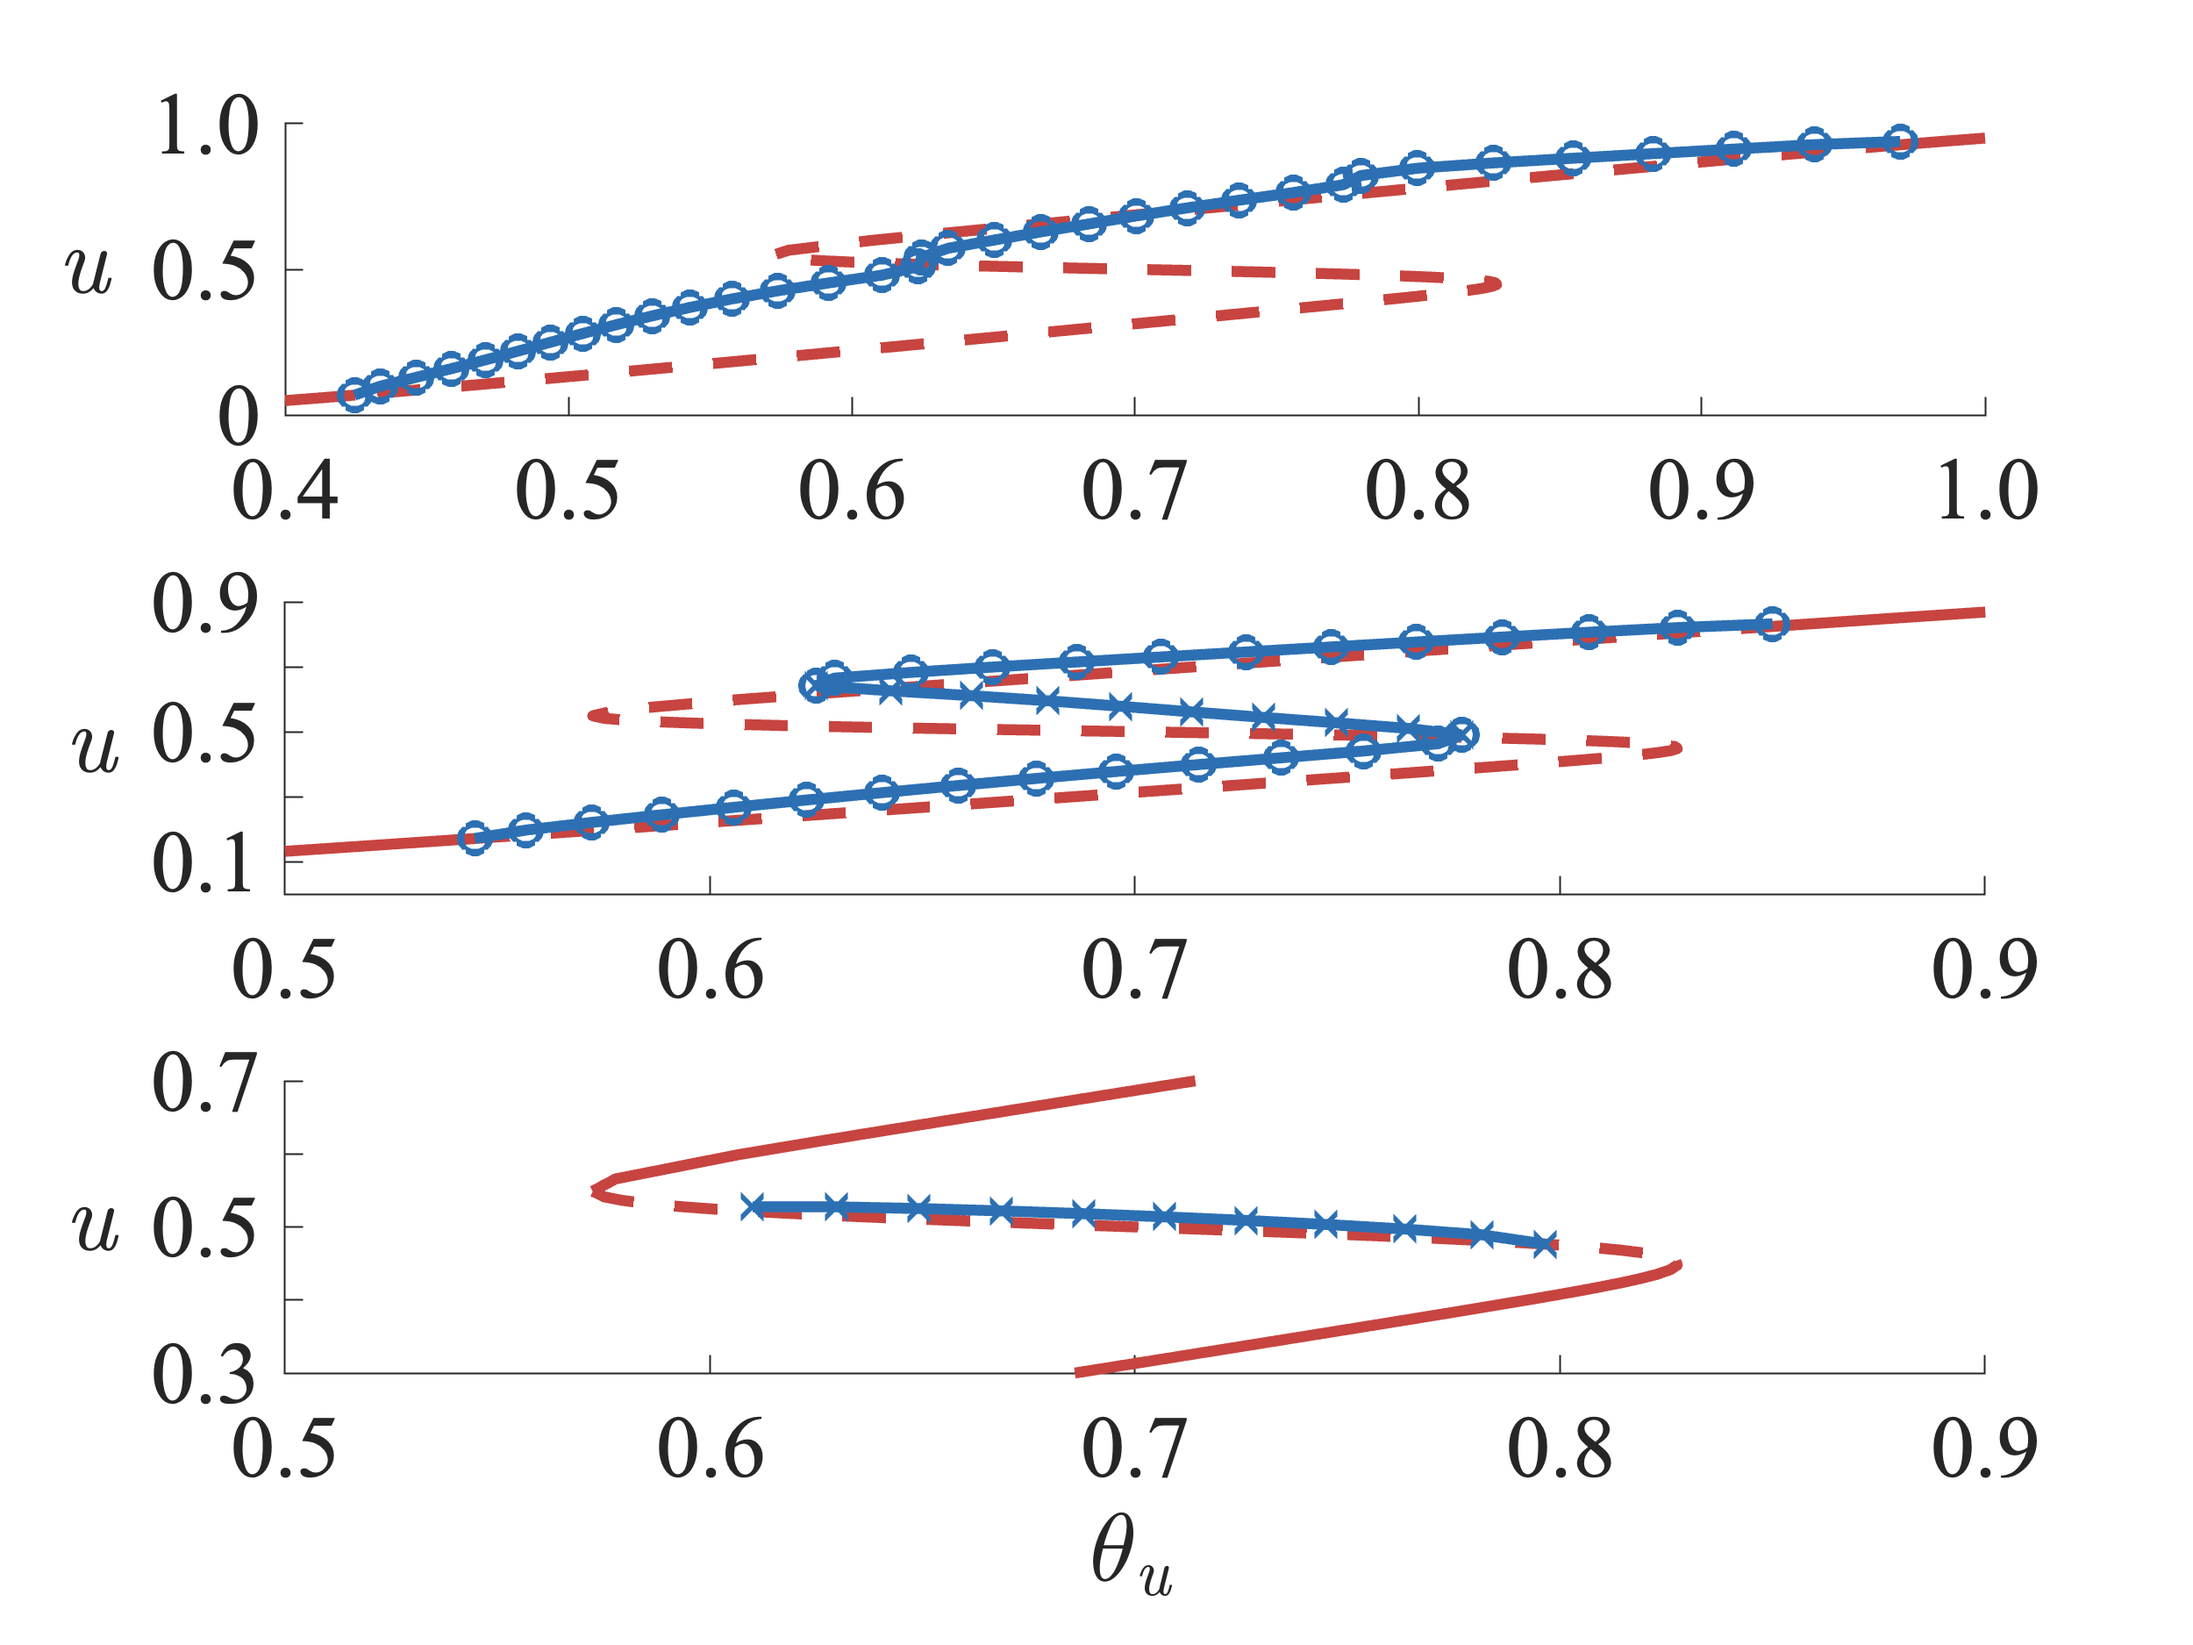
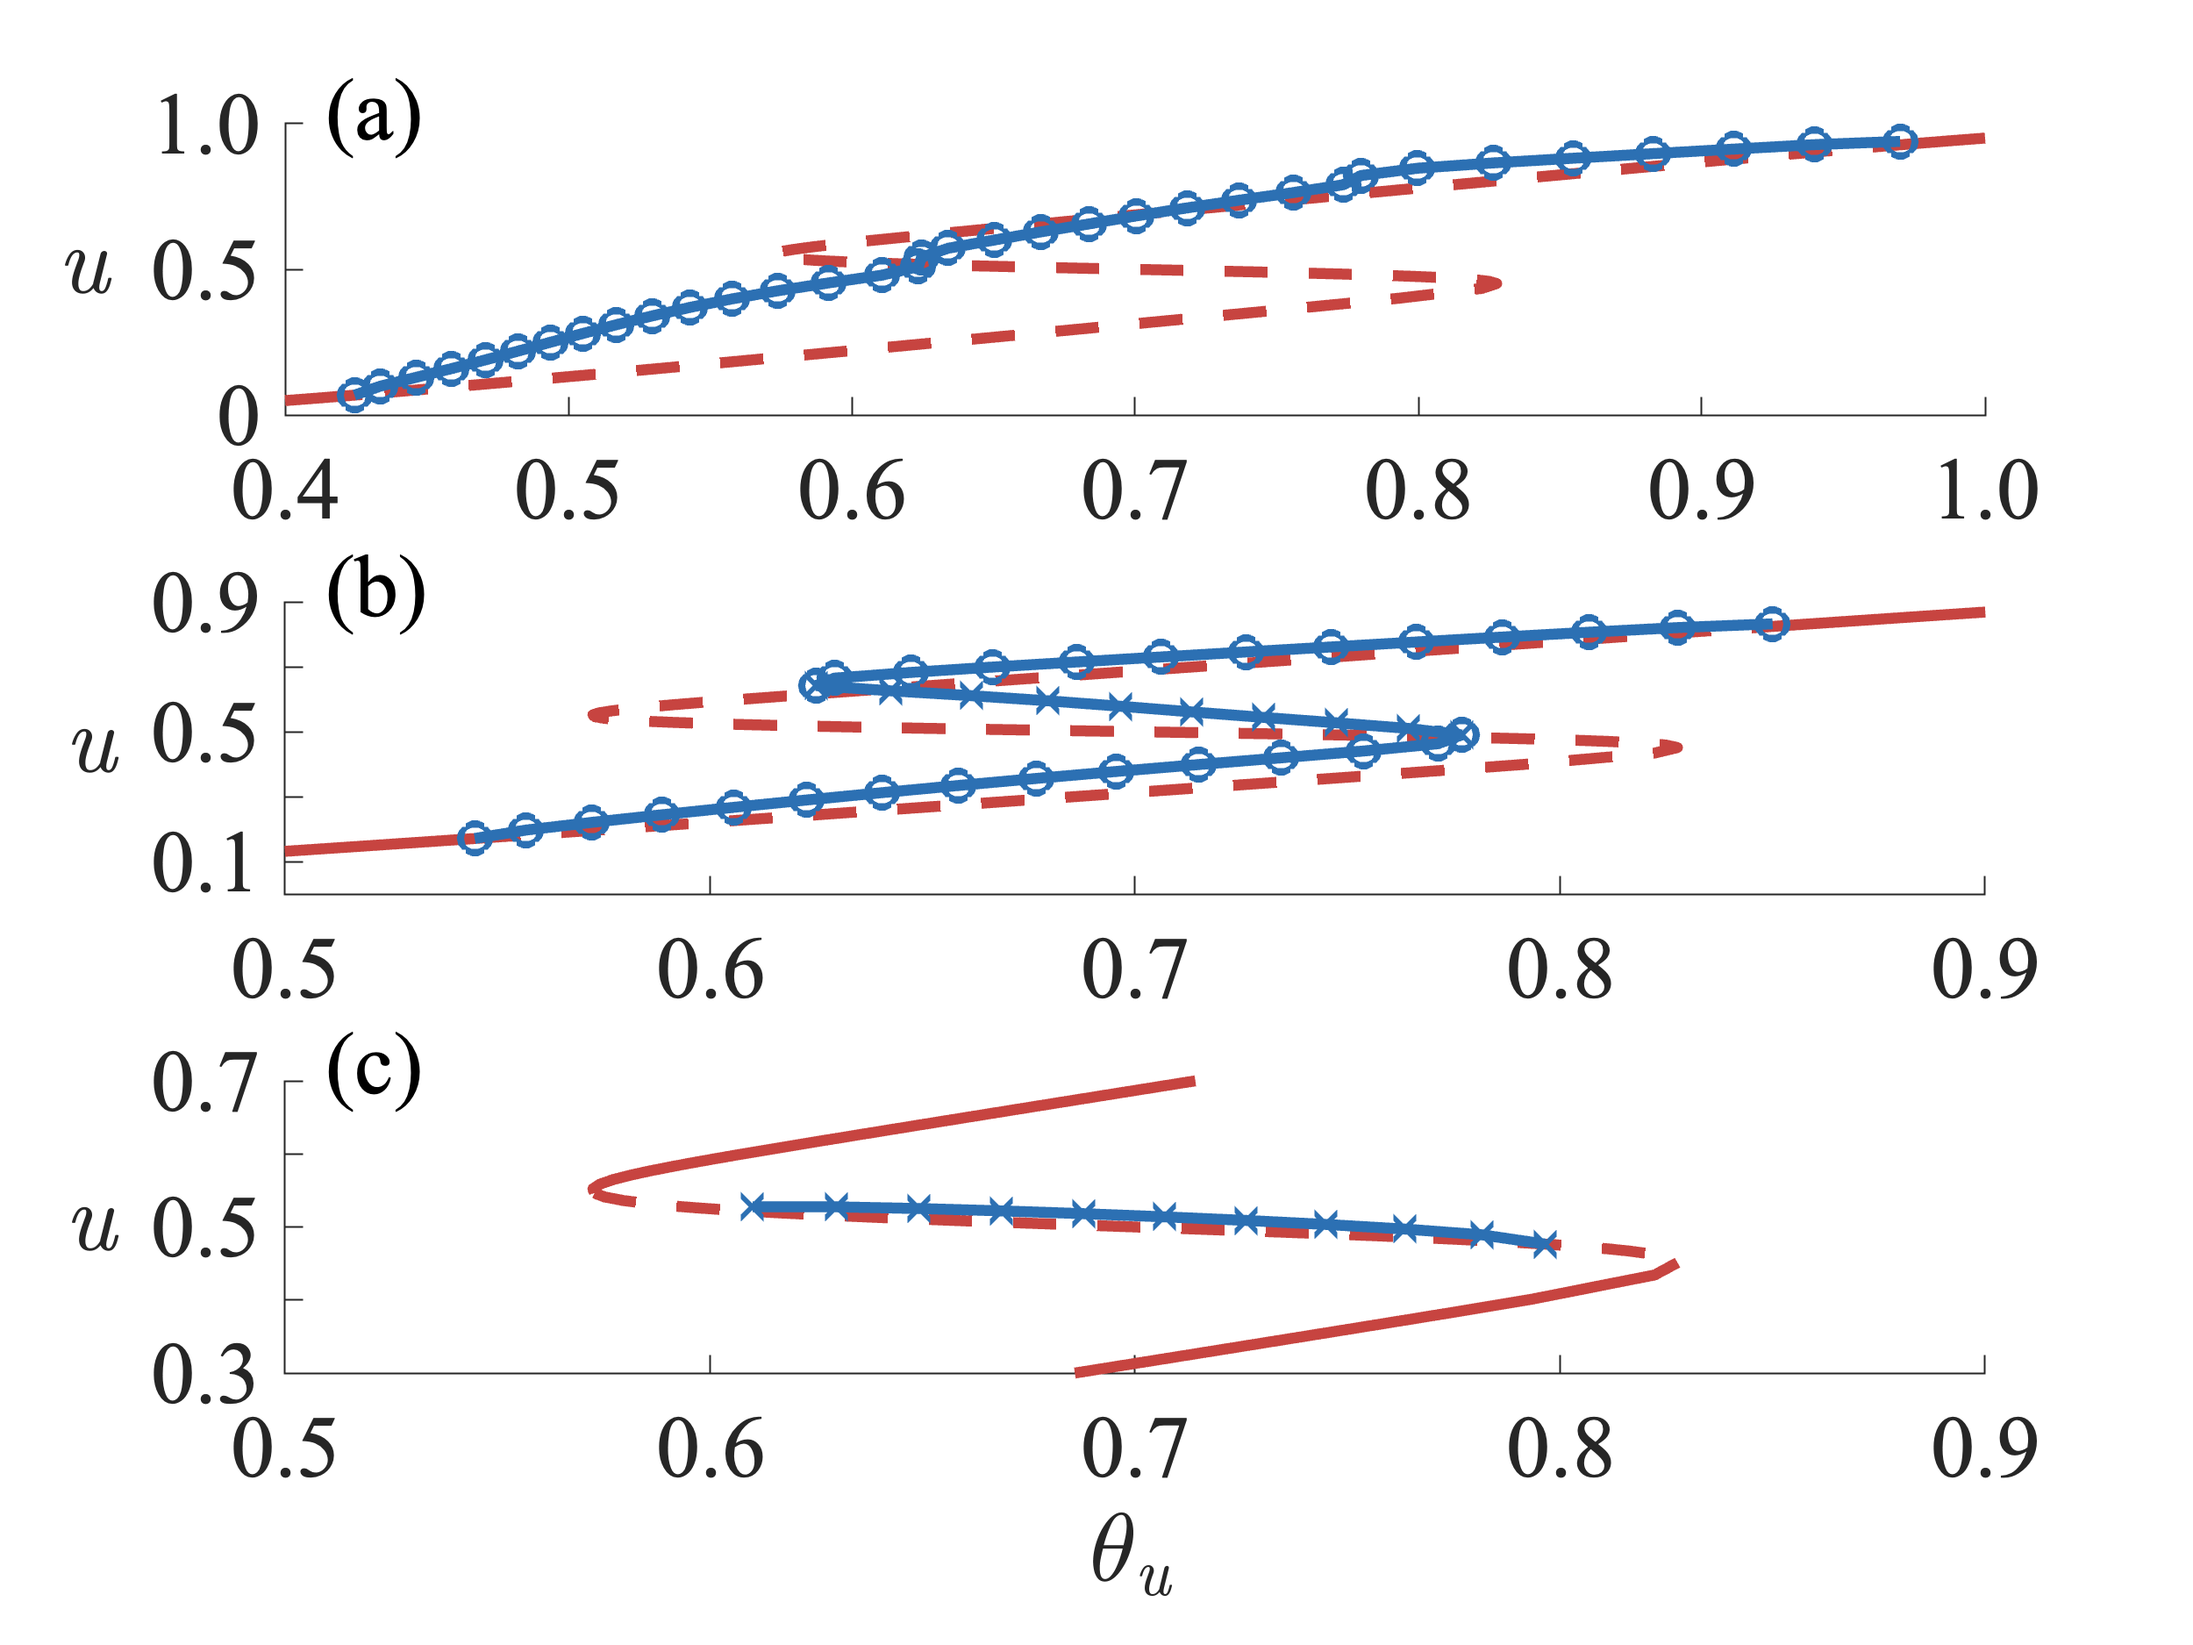
Poster formatting cont.

diff --git a/Code/delay_wilson_cowan.m b/Code/delay_wilson_cowan.m
@@ -43,7 +43,7 @@ ylabel("$\theta_{\mathit{v}}$", 'rotation', 0, 'interpreter', 'latex');
 
 xlim([-7 7]);
 xticks(-6:2:6);
-xticklabels({'','-4','','0','','-4',''});
+xticklabels({'','-4','','0','','4',''});
 
 ylim([-12 0]);
 yticks(-12:2:0);
@@ -358,12 +358,6 @@ tiledlayout(2, 2, 'tilespacing', 'compact', 'padding', 'loose');
 % First subplot
 nexttile; hold on;
 
-% Plot label
-annotation('textbox',[0.13,0.93,0.06,0.06],'string',"(a)", ...
-    'fontsize',24,'fontname','times','edgecolor','none');
-plot(0.95, 0.94, '*', 'color', '#f77e1b', 'markersize', 20, 'linewidth', 2);
-plot(0.95, 0.94, 'square', 'color', '#f77e1b', 'markersize', 24, 'linewidth', 2);
-
 % Plot nullclines
 plot(nullclines.u_null, nullclines.v_range, ...
     '-.', 'color', '#c74440', 'linewidth', 3);
@@ -377,6 +371,12 @@ plot(sol.ode_sim_5(:,1), sol.ode_sim_5(:,2), ...
     '-', 'color', '#378c47', 'linewidth', 2);
 plot(sol.ode_sim_5(end,1), sol.ode_sim_5(end,2), ...
     '.', 'color', 'k', 'markersize', 20);
+
+% Plot label
+annotation('textbox',[0.13,0.93,0.06,0.06],'string',"(a)", ...
+    'fontsize',24,'fontname','times','edgecolor','none');
+plot(0.95, 0.94, '*', 'color', '#f77e1b', 'markersize', 20, 'linewidth', 2);
+plot(0.95, 0.94, 'square', 'color', '#f77e1b', 'markersize', 24, 'linewidth', 2);
 
 % Format axes
 ylabel("$\mathit{v}$", 'interpreter', 'latex', 'rotation', 0, ...
@@ -592,6 +592,10 @@ if isfield(po.a, 'stable2')
     plot(po.a.stable2.x, po.a.stable2.y, 'o', 'markersize', 8, 'color', '#2c70b3', 'linewidth', 2);
 end
 
+% Plot label
+annotation('textbox',[0.14,0.91,0.06,0.06],'string',"(a)", ...
+    'fontsize',24,'fontname','times','edgecolor','none');
+
 % Format axes
 ylabel("$\mathit{u}$", 'rotation', 0, 'interpreter', 'latex', ...
     'position', [0.33, 0.5, -1], 'verticalalignment', 'middle');
@@ -626,6 +630,10 @@ if isfield(po.b, 'stable2')
     plot(po.b.stable2.x, po.b.stable2.y, 'o', 'markersize', 8, 'color', '#2c70b3', 'linewidth', 2);
 end
 
+% Plot label
+annotation('textbox',[0.14,0.62,0.06,0.06],'string',"(b)", ...
+    'fontsize',24,'fontname','times','edgecolor','none');
+
 % Format axes
 ylabel("$\mathit{u}$", 'rotation', 0, 'interpreter', 'latex', ...
     'position', [0.455, 0.45, -1], 'verticalalignment', 'middle');
@@ -659,6 +667,10 @@ if isfield(po.c, 'stable2')
     plot(po.c.stable2.x, po.c.stable2.y, '-', 'color', '#2c70b3', 'linewidth', 3);
     plot(po.c.stable2.x, po.c.stable2.y, 'o', 'markersize', 8, 'color', '#2c70b3', 'linewidth', 2);
 end
+
+% Plot label
+annotation('textbox',[0.14,0.33,0.06,0.06],'string',"(c)", ...
+    'fontsize',24,'fontname','times','edgecolor','none');
 
 % Format axes
 xlabel("$\theta_{\mathit{u}}$", 'interpreter', 'latex');

diff --git a/Code/helper_functions/ddeBiftoolMain.m b/Code/helper_functions/ddeBiftoolMain.m
@@ -49,6 +49,7 @@ stst.parameter=[p.alpha, p.beta, p.a, p.b, p.c, p.d, ...
     p.theta_u, p.theta_v, p.tau_1];
 
 % Extract u and v values from odeSim endpoint
+p.tspan = [0 60]; p.history = [0.7 0.1];
 [stst_u, stst_v] = odeSim(p);
 stst.x=[stst_u; stst_v];
 

diff --git a/Code/helper_functions/ddeBiftoolSection.m b/Code/helper_functions/ddeBiftoolSection.m
@@ -60,6 +60,7 @@ stst.parameter=[p.alpha, p.beta, p.a, p.b, p.c, p.d, ...
     p.theta_u, p.theta_v, p.tau_1];
 
 % Extract u and v values from odeSim endpoint
+p.tspan = [0 60]; p.history = [0.7 0.1];
 [stst_u, stst_v] = odeSim(p);
 stst.x=[stst_u; stst_v];
 
